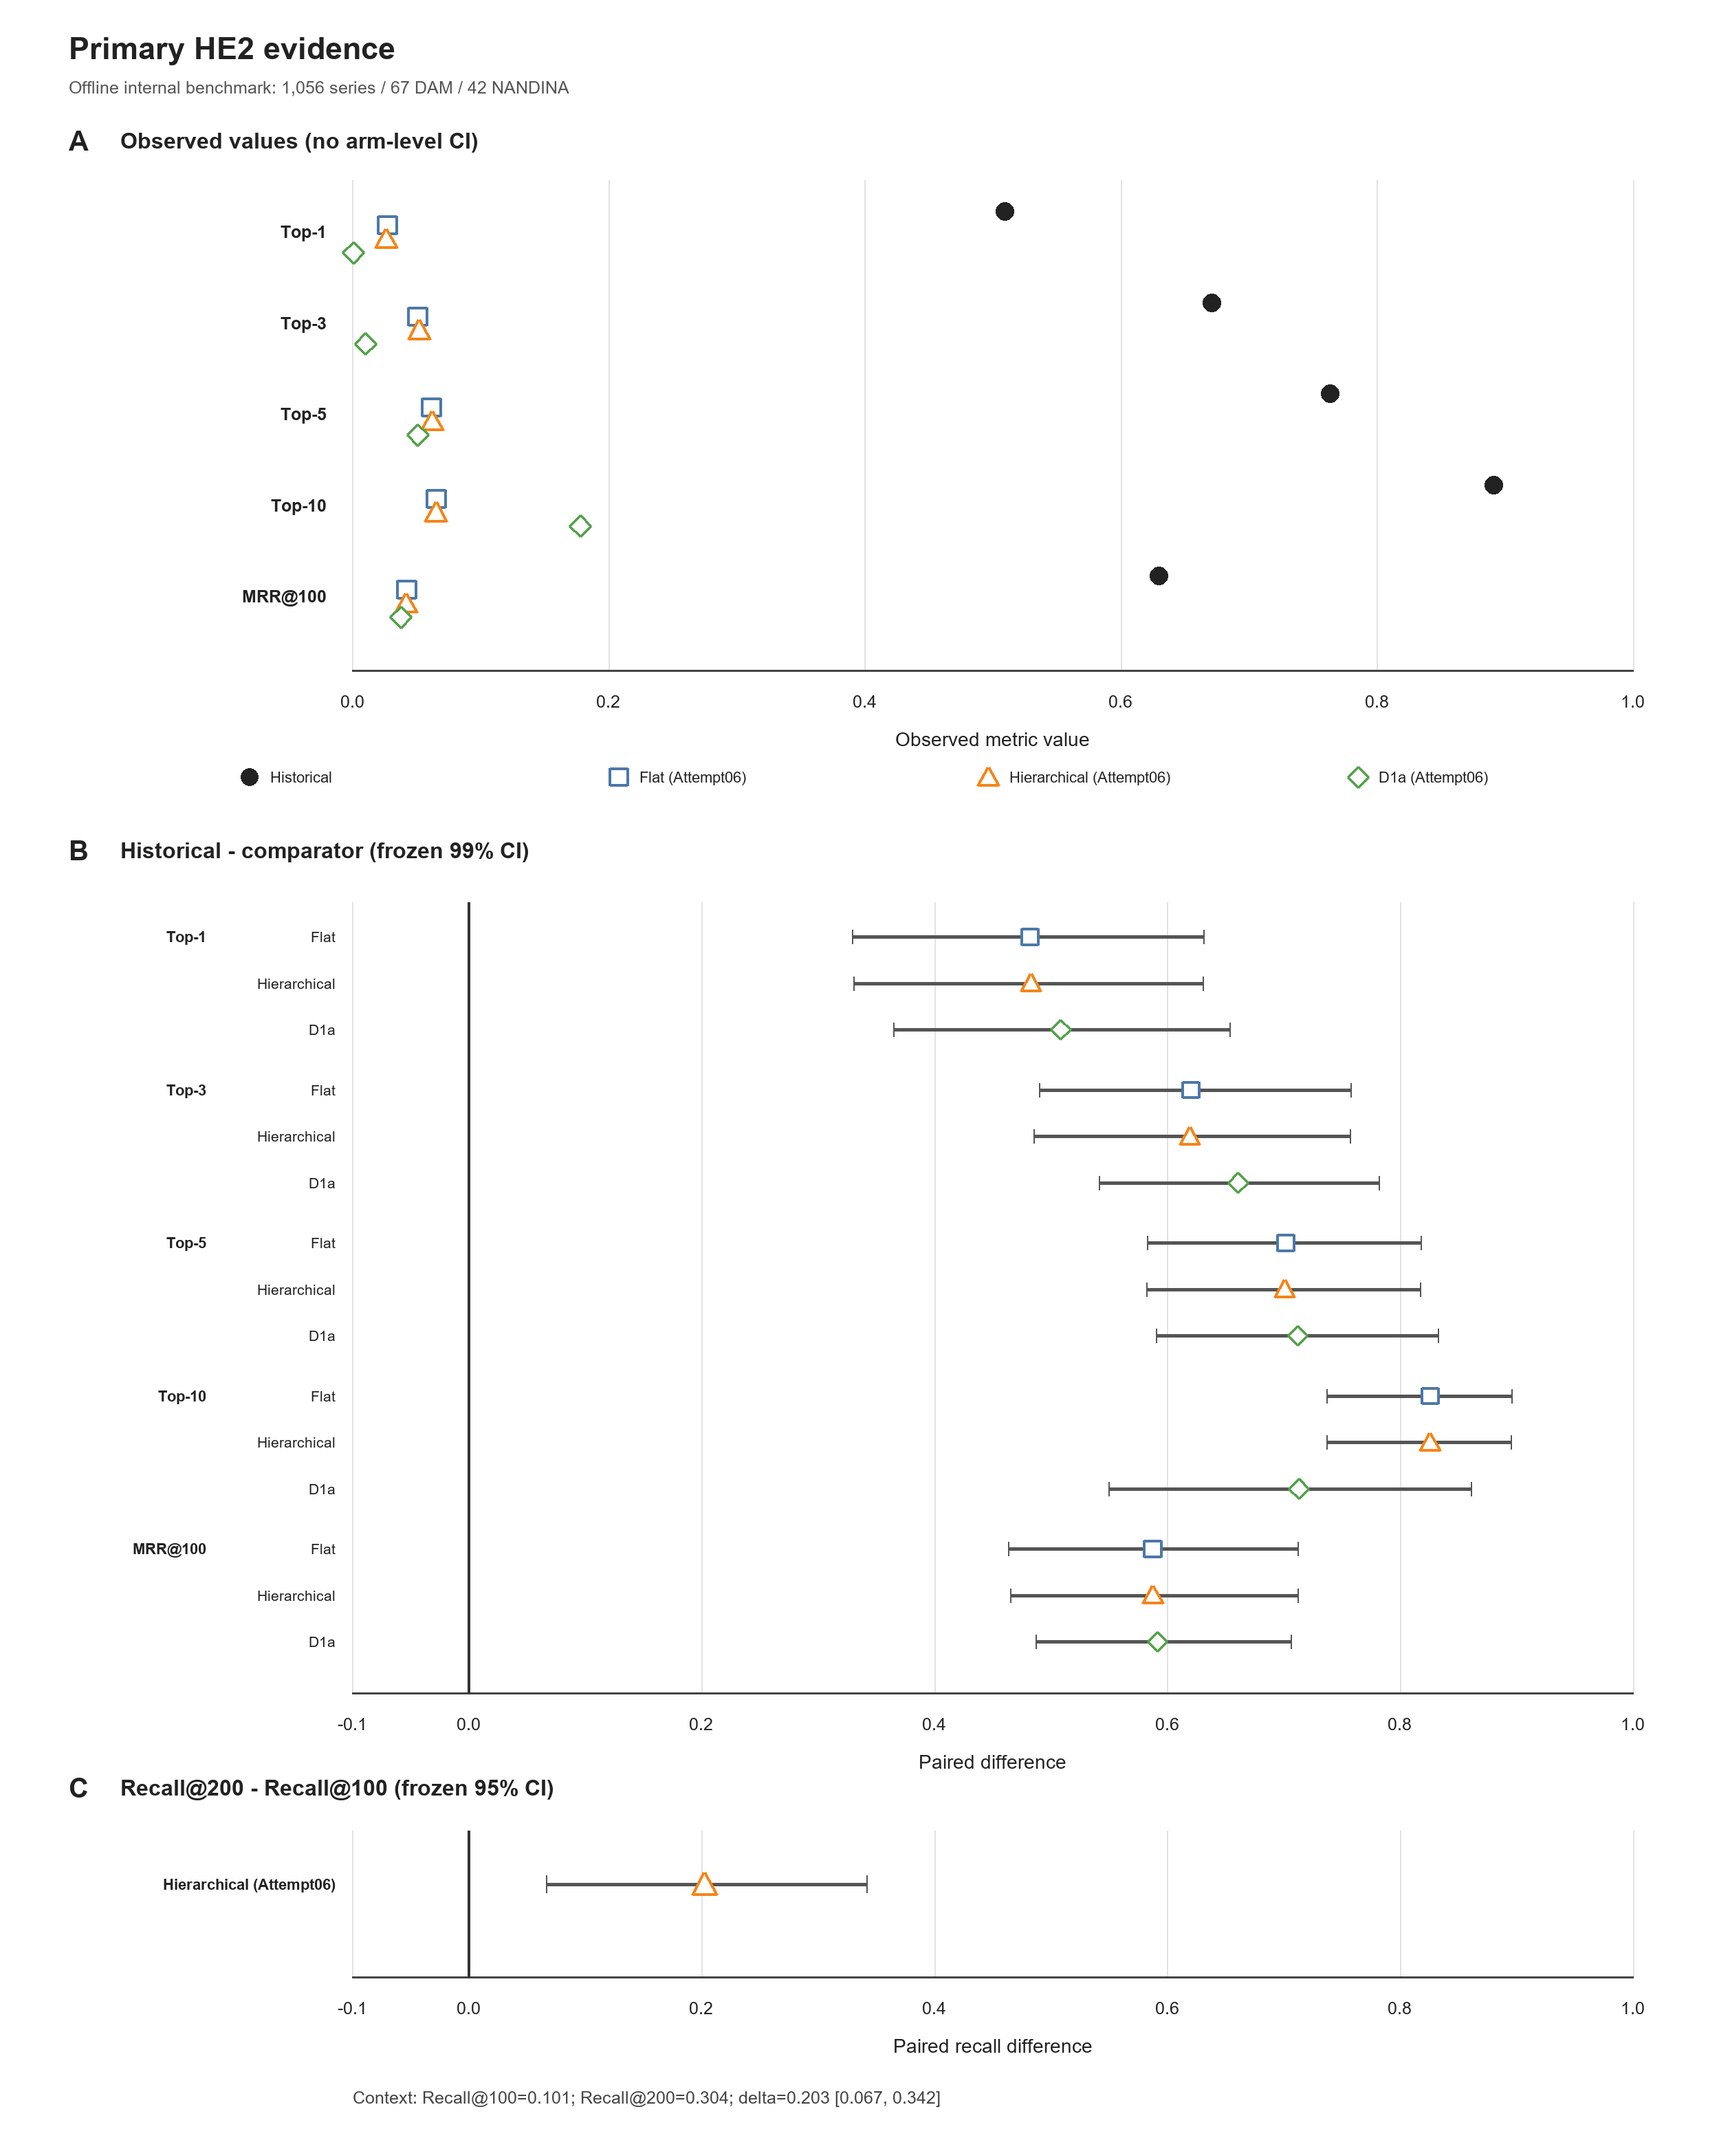
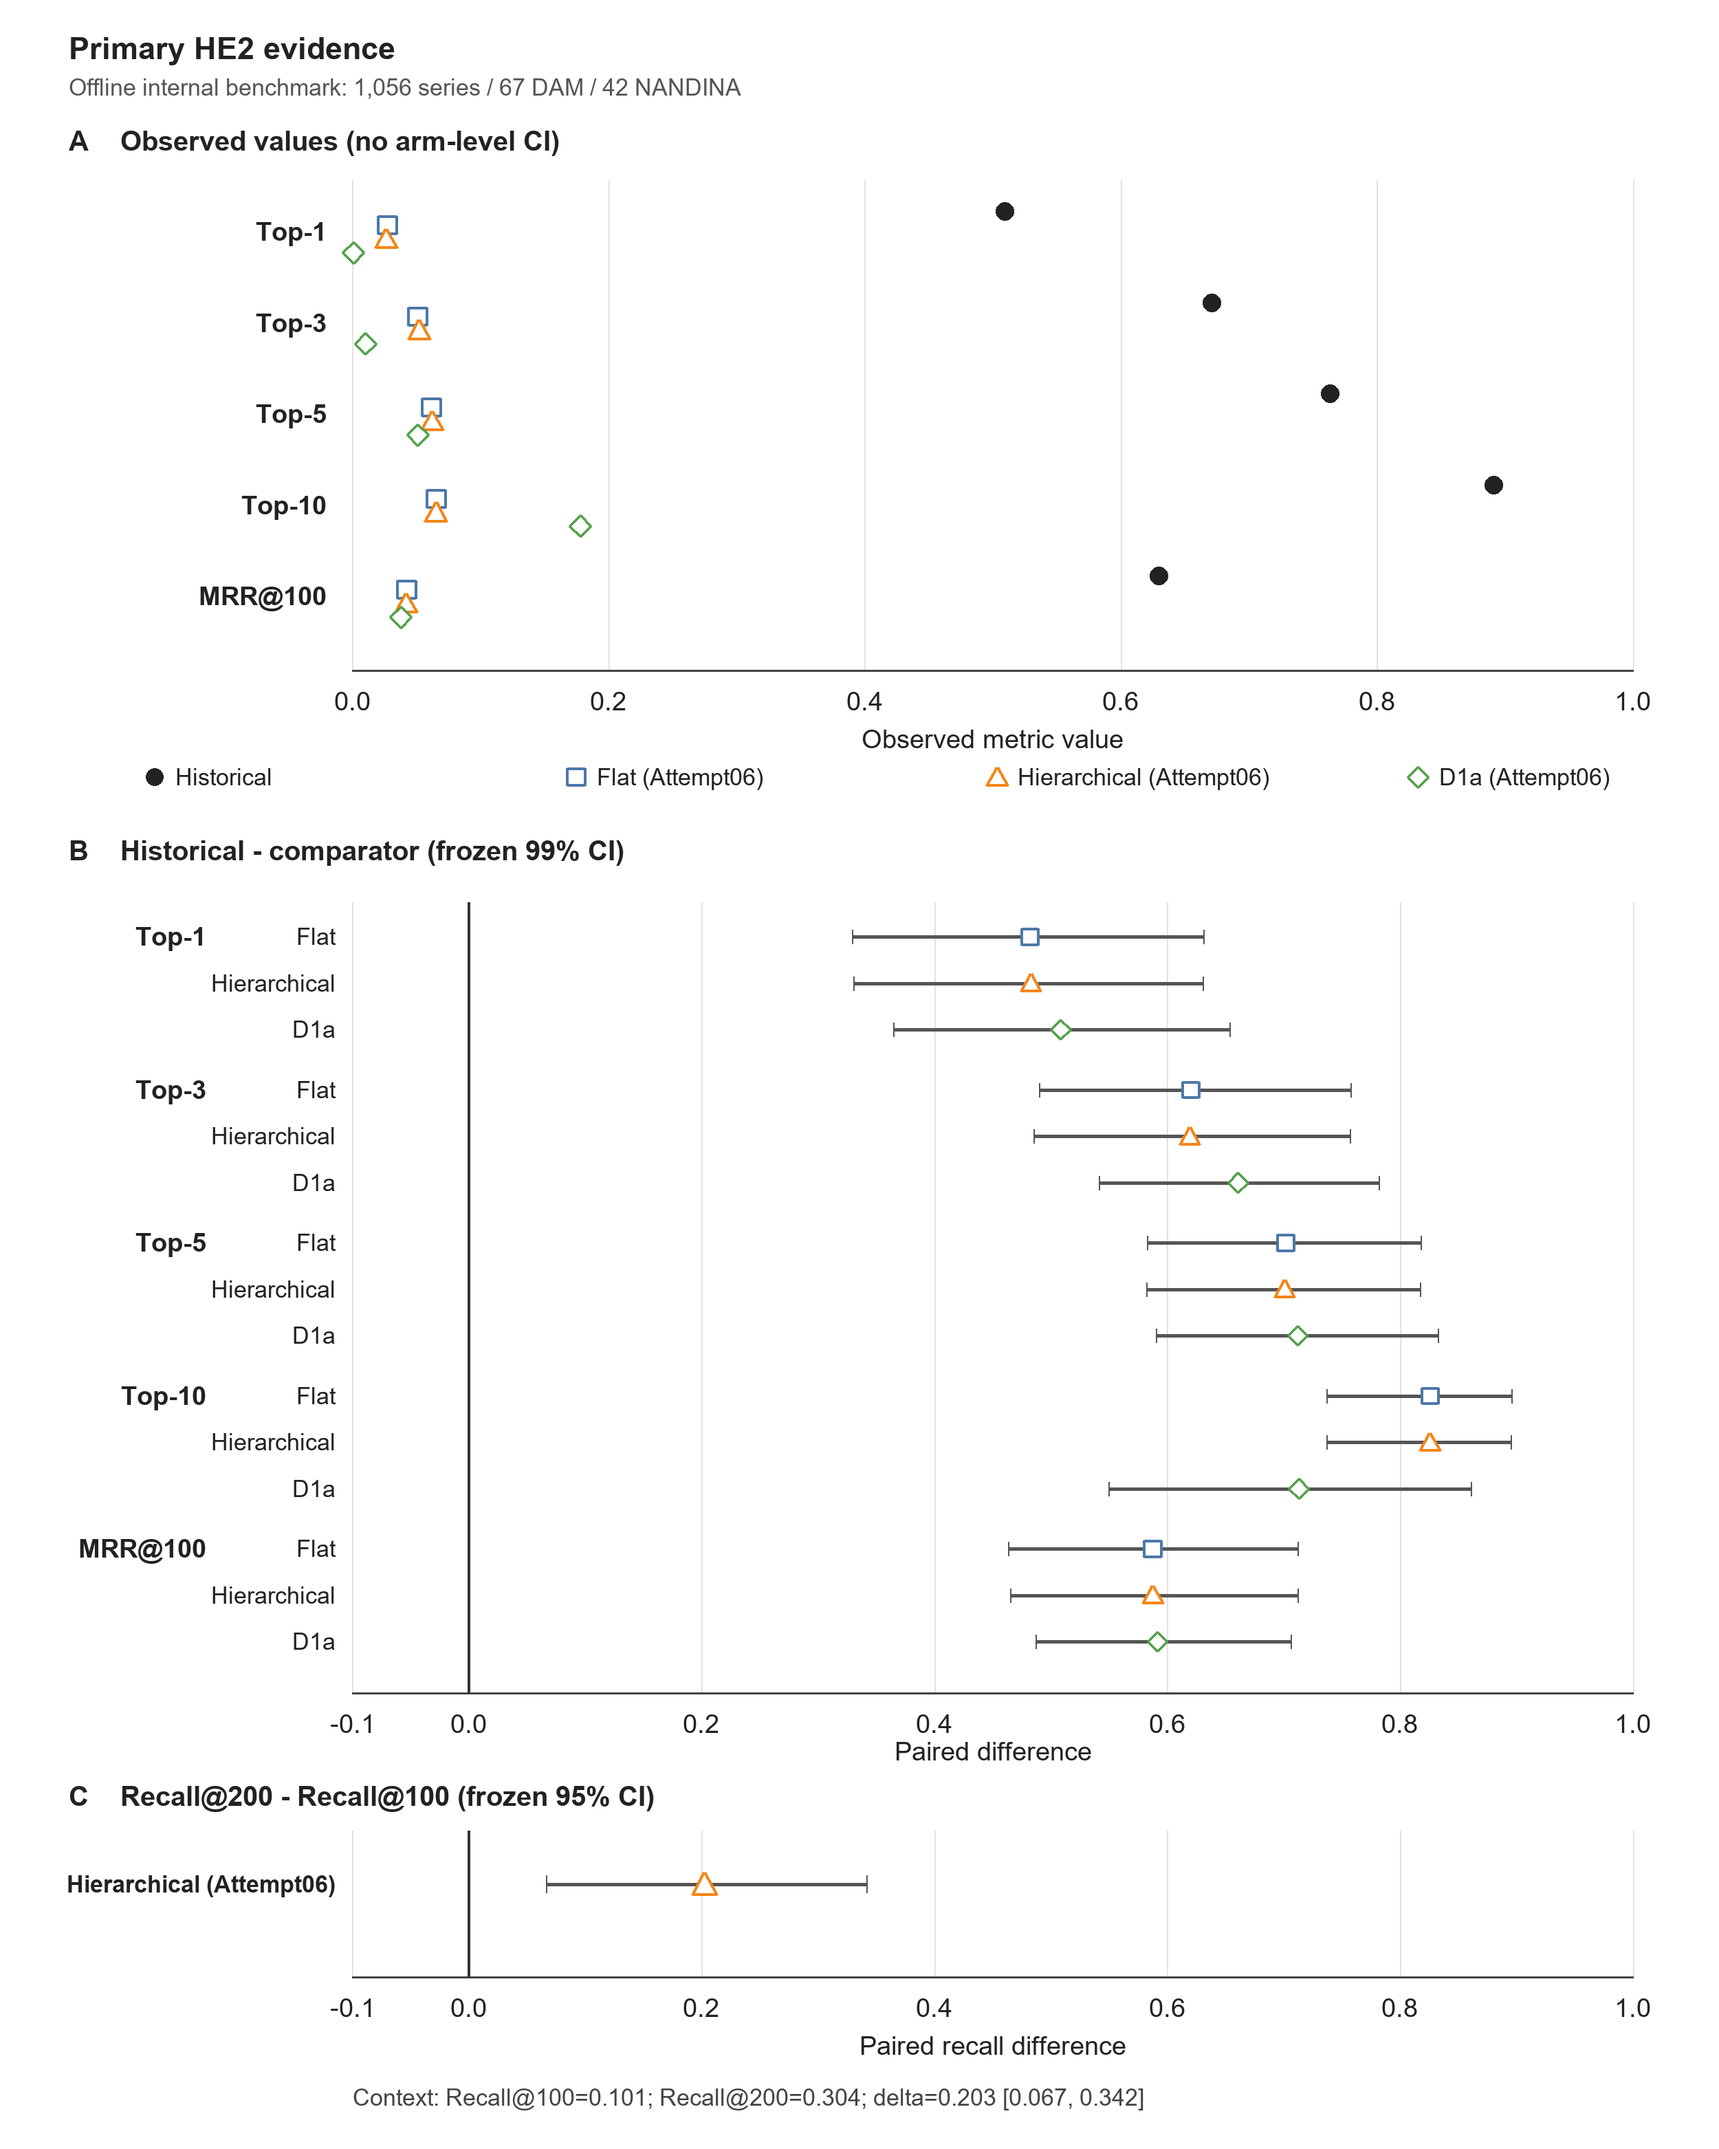
fix: remediate Group 6 figure accessibility

diff --git a/src/figures/group6/render_g6_fig_01_he2.py b/src/figures/group6/render_g6_fig_01_he2.py
@@ -49,7 +49,7 @@ class Canvas:
         self.image = Image.new("RGB", (round(width * scale), round(height * scale)), "white")
         self.draw = ImageDraw.Draw(self.image)
         self.svg = [
-            f'<svg xmlns="http://www.w3.org/2000/svg" width="{width}" height="{height}" viewBox="0 0 {width} {height}">',
+            f'<svg xmlns="http://www.w3.org/2000/svg" width="{width/120}in" height="{height/120}in" viewBox="0 0 {width} {height}">',
             '<rect width="100%" height="100%" fill="white"/>',
         ]
 
@@ -59,6 +59,7 @@ class Canvas:
         return ImageFont.truetype(str(path), round(size * self.s)) if path.exists() else ImageFont.load_default()
 
     def text(self, x, y, value, size=12, anchor="middle", bold=False, fill="#222222"):
+        size = max(size, 13.5)
         pil_anchor = {"start": "lm", "middle": "mm", "end": "rm"}[anchor]
         self.draw.text((x * self.s, y * self.s), value, font=self.font(size, bold), fill=fill, anchor=pil_anchor)
         self.svg.append(
@@ -99,13 +100,13 @@ def xmap(value: float, lo: float, hi: float, left=205, right=950) -> float:
     return left + (value - lo) * (right - left) / (hi - lo)
 
 
-def axes(c: Canvas, top: float, bottom: float, lo: float, hi: float, ticks: list[float], label: str):
+def axes(c: Canvas, top: float, bottom: float, lo: float, hi: float, ticks: list[float], label: str, label_offset=40):
     for tick in ticks:
         x = xmap(tick, lo, hi)
         c.line(x, top, x, bottom, "#E2E2E2", 1)
-        c.text(x, bottom + 18, f"{tick:.1f}", 10)
+        c.text(x, bottom + 18, f"{tick:.1f}", 15)
     c.line(205, bottom, 950, bottom, "#444444", 1.2)
-    c.text((205 + 950) / 2, bottom + 40, label, 11)
+    c.text((205 + 950) / 2, bottom + label_offset, label, 15)
 
 
 def main() -> None:
@@ -130,24 +131,24 @@ def main() -> None:
     c.text(40, 51, "Offline internal benchmark: 1,056 series / 67 DAM / 42 NANDINA", 10, "start", False, "#555555")
 
     c.text(40, 82, "A", 16, "start", True)
-    c.text(70, 82, "Observed values (no arm-level CI)", 13, "start", True)
+    c.text(70, 82, "Observed values (no arm-level CI)", 16, "start", True)
     axes(c, 105, 390, 0, 1, [0, .2, .4, .6, .8, 1], "Observed metric value")
     y_positions = {m: 135 + i * 53 for i, m in enumerate(METRICS)}
     offsets = [-12, -4, 4, 12]
     for metric, y in y_positions.items():
-        c.text(190, y, metric, 10, "end", True)
+        c.text(190, y, metric, 15, "end", True)
         hist = float(next(r["historical_observed_value"] for r in rows if r["metric"] == metric))
         values = [hist] + [float(lookup[(metric, key)]["comparator_observed_value"]) for key in COMPARATORS]
         for (name, shape, color), value, dy in zip(SERIES, values, offsets):
             c.marker(xmap(value, 0, 1), y + dy, shape, color, 5.2, name == "Historical")
     for i, (name, shape, color) in enumerate(SERIES):
-        x = 145 + i * 215
+        x = 90 + i * 245
         c.marker(x, 452, shape, color, 5, name == "Historical")
         c.text(x + 12, 452, name, 9, "start")
 
     c.text(40, 495, "B", 16, "start", True)
-    c.text(70, 495, "Historical - comparator (frozen 99% CI)", 13, "start", True)
-    axes(c, 525, 985, -.1, 1, [-.1, 0, .2, .4, .6, .8, 1], "Paired difference")
+    c.text(70, 495, "Historical - comparator (frozen 99% CI)", 16, "start", True)
+    axes(c, 525, 985, -.1, 1, [-.1, 0, .2, .4, .6, .8, 1], "Paired difference", 34)
     c.line(xmap(0, -.1, 1), 525, xmap(0, -.1, 1), 985, "#333333", 1.4)
     shapes = {"Flat": ("square", "#4C78A8"), "Hierarchical": ("triangle", "#F58518"), "D1a": ("diamond", "#54A24B")}
     row_y = 545
@@ -156,8 +157,8 @@ def main() -> None:
             r = lookup[(metric, key)]
             y = row_y
             row_y += 27
-            c.text(120, y, metric if short == "Flat" else "", 9, "end", short == "Flat")
-            c.text(195, y, short, 8.5, "end")
+            c.text(120, y, metric if short == "Flat" else "", 15, "end", short == "Flat")
+            c.text(195, y, short, 13.5, "end")
             lo = float(r["frozen_99pct_ci_lower_for_paired_difference"])
             hi = float(r["frozen_99pct_ci_upper_for_paired_difference"])
             est = float(r["paired_difference_historical_minus_comparator"])
@@ -168,8 +169,8 @@ def main() -> None:
             c.marker(xmap(est, -.1, 1), y, shape, color, 4.7)
         row_y += 8
 
-    c.text(40, 1040, "C", 16, "start", True)
-    c.text(70, 1040, "Recall@200 - Recall@100 (frozen 95% CI)", 13, "start", True)
+    c.text(40, 1045, "C", 16, "start", True)
+    c.text(70, 1045, "Recall@200 - Recall@100 (frozen 95% CI)", 16, "start", True)
     axes(c, 1065, 1150, -.1, 1, [-.1, 0, .2, .4, .6, .8, 1], "Paired recall difference")
     c.line(xmap(0, -.1, 1), 1065, xmap(0, -.1, 1), 1150, "#333333", 1.4)
     r = deep[0]

diff --git a/src/figures/group6/render_g6_fig_02_phase_e.py b/src/figures/group6/render_g6_fig_02_phase_e.py
@@ -48,9 +48,10 @@ def main() -> None:
     W, H, S = 1200, 675, 2.5
     image = Image.new("RGB", (round(W*S), round(H*S)), "white")
     draw = ImageDraw.Draw(image)
-    svg = [f'<svg xmlns="http://www.w3.org/2000/svg" width="{W}" height="{H}" viewBox="0 0 {W} {H}">', '<rect width="100%" height="100%" fill="white"/>']
+    svg = [f'<svg xmlns="http://www.w3.org/2000/svg" width="{W/120}in" height="{H/120}in" viewBox="0 0 {W} {H}">', '<rect width="100%" height="100%" fill="white"/>']
 
     def text(x, y, value, size=12, anchor="middle", bold=False, fill="#222222"):
+        size = max(size, 13.5)
         a = {"start":"lm","middle":"mm","end":"rm"}[anchor]
         draw.text((x*S,y*S), value, font=font(size,bold,S), fill=fill, anchor=a)
         svg.append(f'<text x="{x:.2f}" y="{y:.2f}" text-anchor="{anchor}" dominant-baseline="middle" font-family="Arial, sans-serif" font-size="{size}" font-weight="{"700" if bold else "400"}" fill="{fill}">{html.escape(value)}</text>')
@@ -75,7 +76,7 @@ def main() -> None:
     left,right,top,bottom=100,815,95,565
     def ymap(v): return bottom-v/.35*(bottom-top)
     for tick in [0,.05,.10,.15,.20,.25,.30,.35]:
-        y=ymap(tick); line(left,y,right,y,"#E1E1E1",1); text(left-12,y,f"{tick:.2f}",9,"end")
+        y=ymap(tick); line(left,y,right,y,"#E1E1E1",1); text(left-12,y,f"{tick:.2f}",15,"end")
     line(left,top,left,bottom,"#444444",1.2); line(left,bottom,right,bottom,"#444444",1.2)
     # Match the external vertical label in both formats; 17 units = 10.2 pt in PNG.
     label = "Exact-NANDINA coverage"
@@ -89,19 +90,19 @@ def main() -> None:
     anchors={50:200,100:455,200:710}; dodge=[-28,-14,0,14,28]
     lookup={(r["variant"],int(r["depth"])):float(r["exact-NANDINA coverage"]) for r in rows}
     for depth in DEPTHS:
-        text(anchors[depth],bottom+23,str(depth),11,"middle",True)
+        text(anchors[depth],bottom+23,str(depth),15,"middle",True)
         for i,(variant,shape,color,formal) in enumerate(VARIANTS):
             marker(anchors[depth]+dodge[i],ymap(lookup[(variant,depth)]),shape,color,formal)
-    text((left+right)/2,bottom+50,"Recovery depth (ordered categories)",11,"middle")
+    text((left+right)/2,bottom+50,"Recovery depth (ordered categories)",17,"middle")
     text(865,105,"Formal claim variants",11,"start",True)
     for i,(variant,shape,color,formal) in enumerate(VARIANTS[:4]):
-        y=137+i*49; marker(878,y,shape,color,formal,6); text(896,y,variant,9,"start")
+        y=137+i*49; marker(878,y,shape,color,formal,6); text(896,y,variant,15,"start")
     text(865,350,"Context only",11,"start",True)
-    variant,shape,color,formal=VARIANTS[4]; marker(878,383,shape,color,formal,6); text(896,383,"hierarchical_70_",9,"start"); text(896,400,"dual_backfill_30",9,"start")
+    variant,shape,color,formal=VARIANTS[4]; marker(878,383,shape,color,formal,6); text(896,383,"hierarchical_70_",15,"start"); text(896,403,"dual_backfill_30",15,"start")
     text(865,458,"15 marks = 5 variants x 3 depths",9,"start",False,"#555555")
     text(865,480,"N = 1,056 series",9,"start",False,"#555555")
     text(865,500,"67 DAM / 42 NANDINA",9,"start",False,"#555555")
-    text(45,636,"The diagnostic union is excluded from ordinary performance. Context and formal variants retain equal visual weight.",9,"start",False,"#555555")
+    text(45,648,"The diagnostic union is excluded from ordinary performance. Context and formal variants retain equal visual weight.",13.5,"start",False,"#555555")
     OUT.mkdir(parents=True,exist_ok=True)
     (OUT/"g6_fig_02_phase_e.svg").write_text("\n".join(svg+["</svg>"])+"\n",encoding="utf-8",newline="\r\n")
     image.save(OUT/"g6_fig_02_phase_e.png",format="PNG",dpi=(300,300),optimize=False,compress_level=9)

diff --git a/src/figures/group6/render_g6_fig_03_exp11a.py b/src/figures/group6/render_g6_fig_03_exp11a.py
@@ -80,7 +80,7 @@ def main():
     colors={"H25":"#4C78A8","H50-D1":"#F58518","H50-D2":"#54A24B","H75":"#B279A2","H100 ref.":"#222222"}
     for idx,metric in enumerate(METRICS):
         col,row=idx%3,idx//3; left=xstarts[col]; top=ystarts[row]; right=left+315; bottom=top+235
-        text(left,top-18,metric,12,"start",True)
+        text(left,top-18,metric,16,"start",True)
         for tick in [0,.25,.5,.75,1]:
             y=bottom-tick*(bottom-top); line(left,y,right,y,"#E4E4E4",1); text(left-8,y,f"{tick:.2f}",8,"end")
         line(left,top,left,bottom,"#444444",1); line(left,bottom,right,bottom,"#444444",1)
